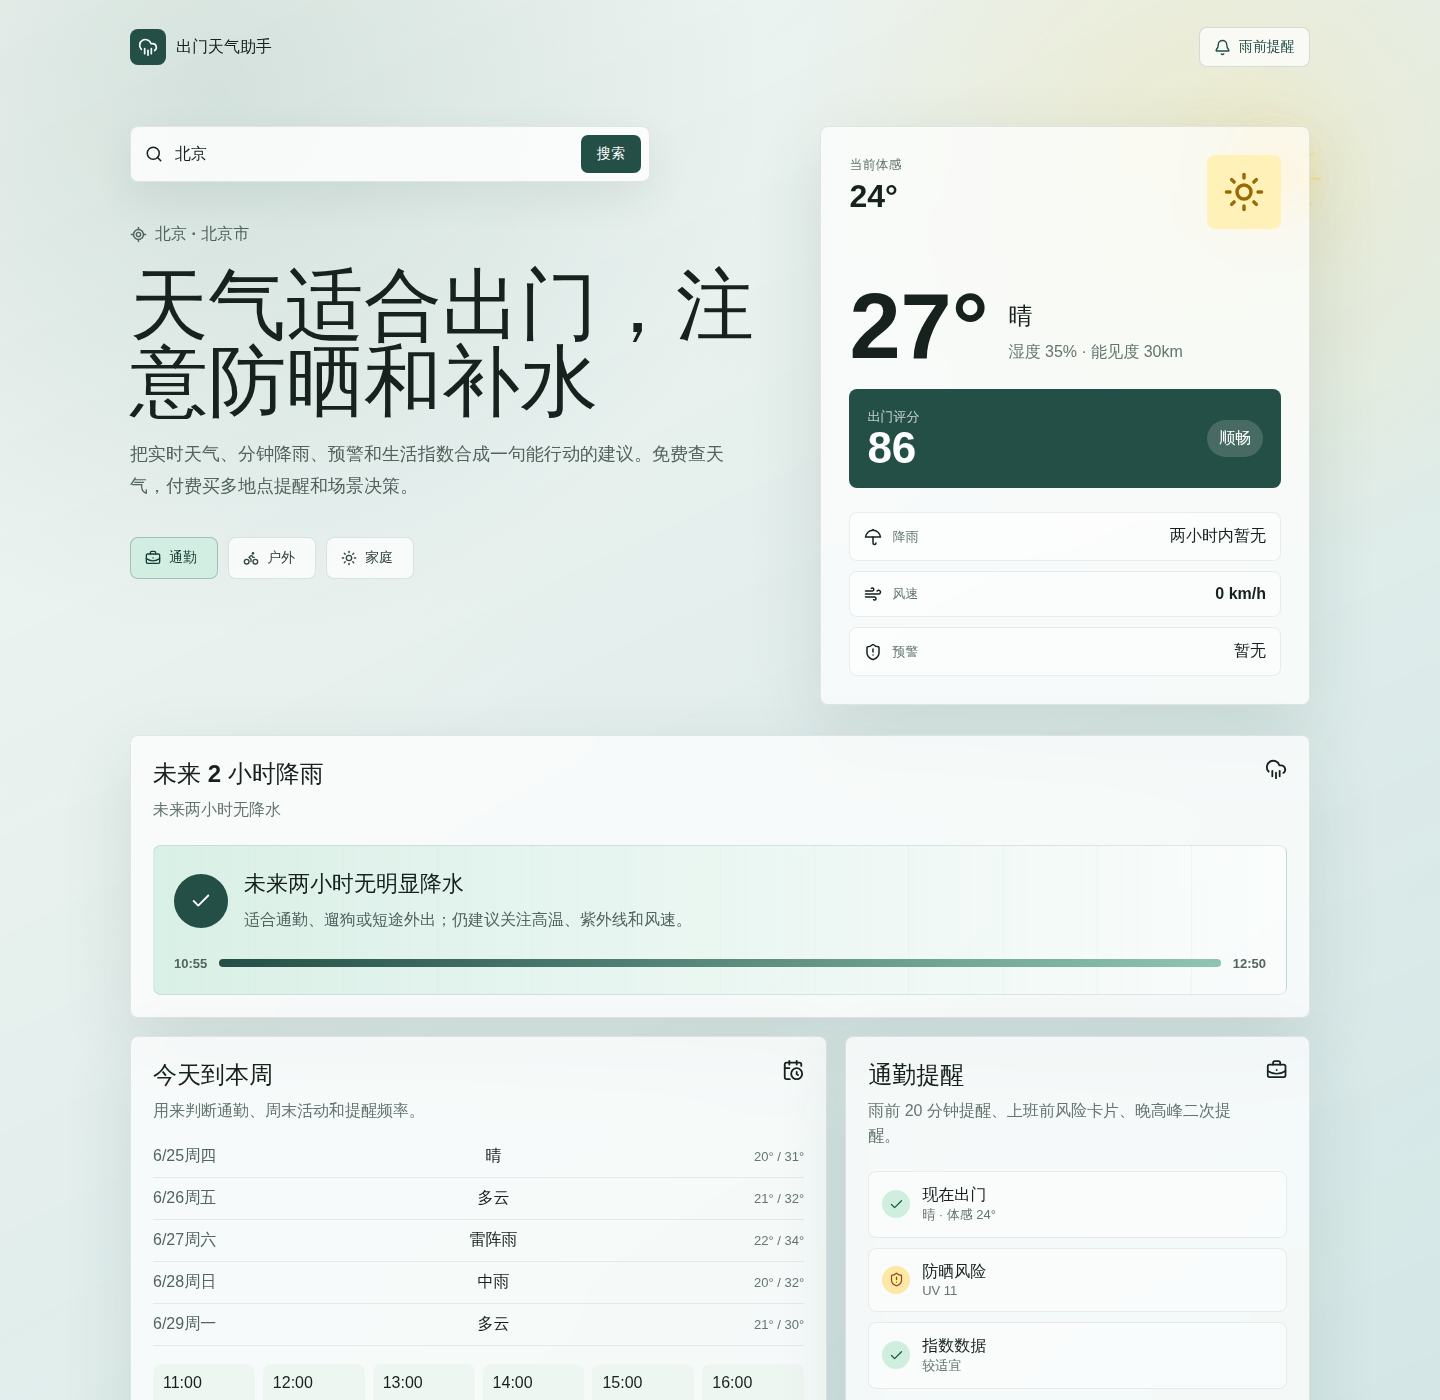
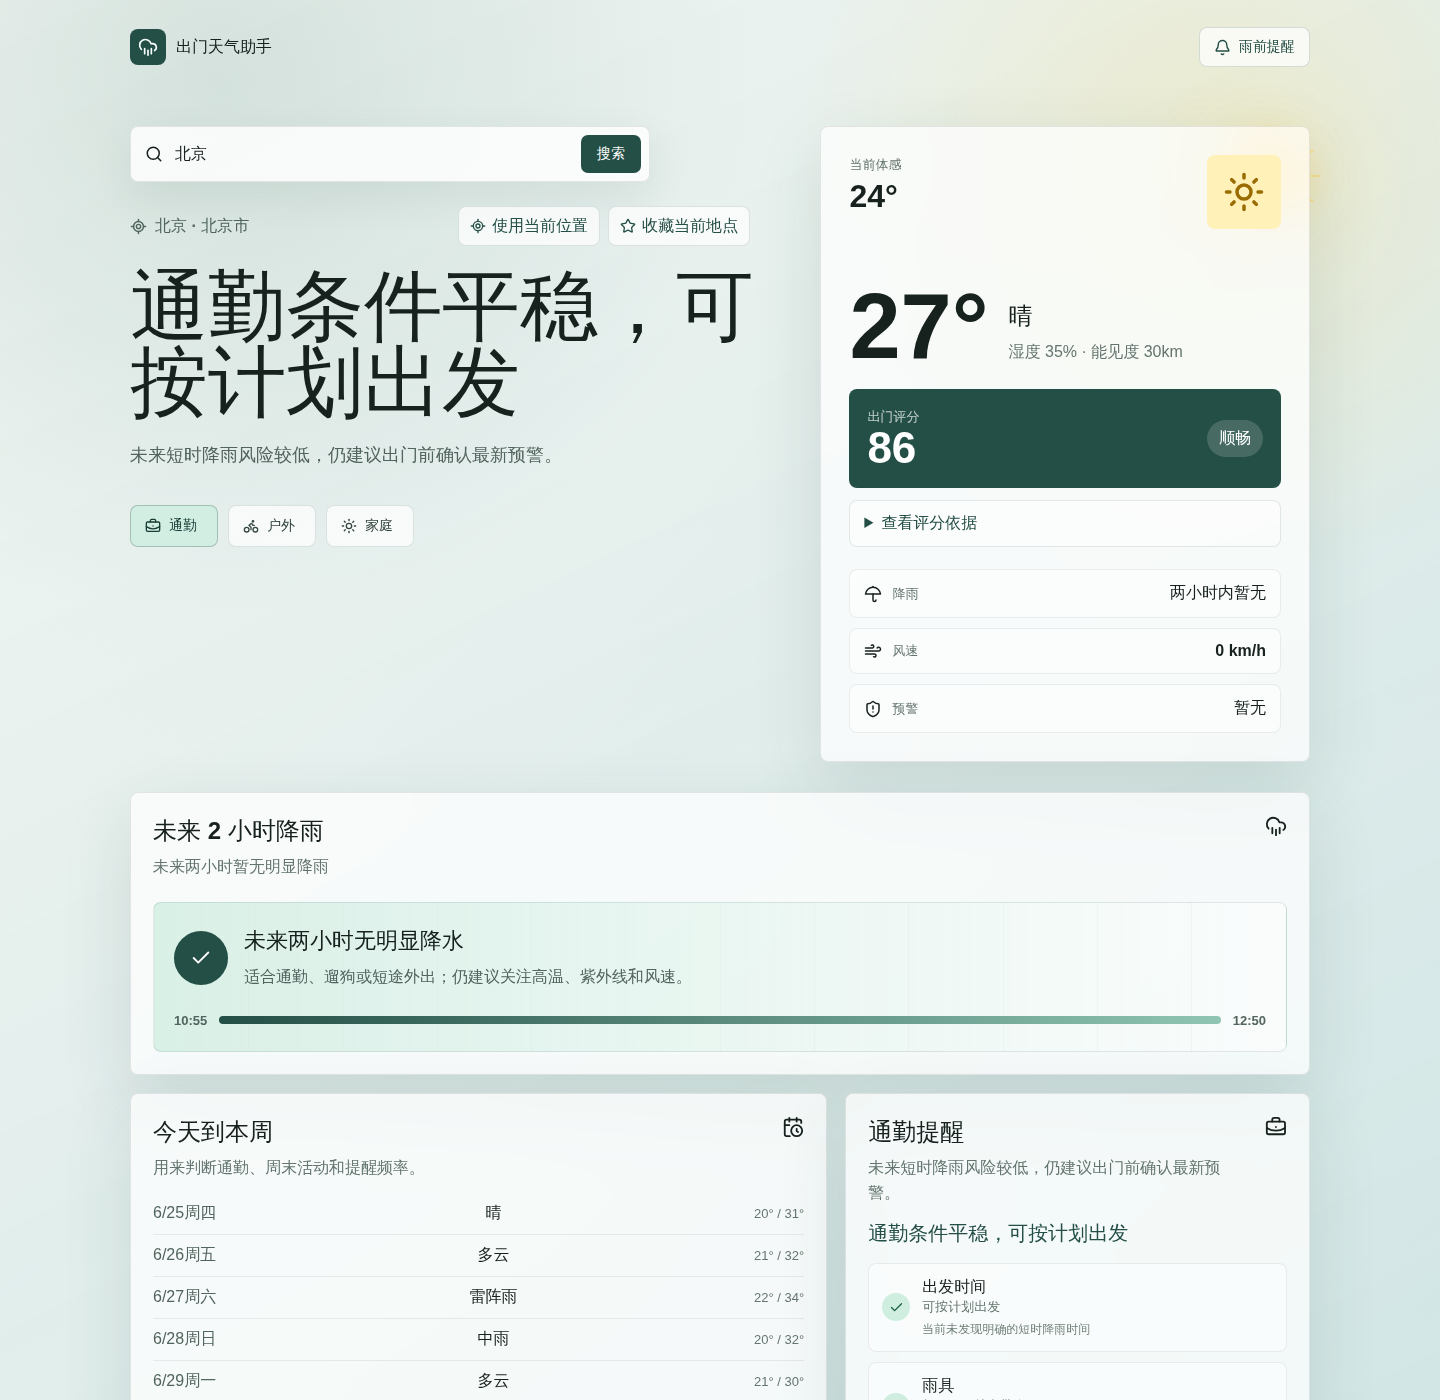
docs: explain local weather decision features

diff --git a/README.md b/README.md
@@ -25,7 +25,10 @@
 
 - **一眼做决定**：把体感温度、降雨、风速、预警和生活指数转成可执行建议
 - **关注接下来两小时**：分钟级降雨趋势，出门前快速判断是否需要带伞
-- **按场景组织信息**：通勤、户外、家庭三种模式，不再被无关数据淹没
+- **真正不同的场景建议**：通勤看出发与雨具，户外看活动窗口，家庭看老人儿童与穿衣防晒
+- **本机雨前提醒**：可设置地点、提前量和生效时段，页面打开期间自动检查降雨
+- **常用地点与当前位置**：一键定位，并在本机保存最多 5 个常用地点
+- **评分有依据**：查看基础分、天气扣分项、数据来源和更新时间
 - **免费即可体验**：默认 Mock 模式，不注册账号、不填写 API Key 也能完整运行
 - **凭据留在服务端**：浏览器只访问项目 API，避免将和风天气 Key 暴露到前端
 - **部署方式简单**：支持本地运行、生产构建与 Docker Compose
@@ -59,8 +62,18 @@ npm run dev:mock
 | 7 天与 24 小时预报 | 安排通勤、周末和户外活动 |
 | 天气预警与生活指数 | 提前规避高温、雷雨等风险 |
 | 城市与区县搜索 | 快速查看目的地天气 |
-| 通勤 / 户外 / 家庭模式 | 只看当前场景真正需要的信息 |
+| 通勤 / 户外 / 家庭模式 | 获得不同的出发、活动和家庭建议 |
+| 本机雨前提醒 | 在页面打开期间提前收到浏览器或页面提示 |
+| 当前位置与常用地点 | 快速切换家、公司、学校等地点 |
+| 可解释出门评分 | 看清降雨、大风、UV 等扣分因素 |
 | 骨架屏与渐进加载 | 弱网环境下更快看到关键结论 |
+
+## 本机雨前提醒
+
+点击页面右上角“雨前提醒”，选择地点、提前 10/20/30 分钟和生效时段。只有在你主动点击“允许通知”后，Weather Pro 才会请求浏览器通知权限。
+
+> [!NOTE]
+> 当前是本机 MVP：页面打开期间会每 5 分钟检查一次降雨，页面重新可见时也会立即检查。关闭浏览器后无法保证提醒；后台 Web Push 和跨设备同步仍在 Roadmap 中。
 
 ## 使用真实天气数据
 
@@ -120,6 +133,7 @@ QWeather API（或内置 Mock 数据）
 
 ```text
 weather_help/
+├── shared/                 # 前后端共用的场景建议与评分规则
 ├── src/                    # React 界面、天气效果与渐进加载
 ├── server/                 # Express API、天气服务、缓存与 Mock 数据
 ├── public/                 # 静态资源与产品截图
@@ -131,7 +145,7 @@ weather_help/
 
 ## Roadmap
 
-接下来计划支持 PWA、本地常用地点、降雨提醒、分享天气卡片和更多户外场景。查看完整 [Roadmap](./ROADMAP.md)，也欢迎通过 Issue 提议你最需要的能力。
+接下来计划支持 PWA、后台 Web Push、跨设备同步、分享天气卡片和更多户外场景。查看完整 [Roadmap](./ROADMAP.md)，也欢迎通过 Issue 提议你最需要的能力。
 
 ## 参与贡献
 

diff --git a/README.en.md b/README.en.md
@@ -25,7 +25,10 @@ Most weather apps give you numbers. Weather Pro focuses on the decisions behind 
 
 - **Decide at a glance** with actionable guidance built from temperature, rain, wind, warnings, and lifestyle indices
 - **See the next two hours** with minute-level precipitation trends
-- **Switch by context** between commute, outdoor, and family views
+- **Get genuinely different scenario advice** for commuting, outdoor activities, and family plans
+- **Enable local rain reminders** with a location, lead time, and active hours
+- **Use current and favorite locations** with up to five places stored locally
+- **Understand the score** through weather penalties, source, and update time
 - **Try it without an account** using the built-in Mock mode
 - **Keep credentials server-side** behind an Express API proxy
 - **Deploy simply** with a production build or Docker Compose
@@ -53,8 +56,18 @@ Open [http://localhost:5177](http://localhost:5177). Mock data is enabled by def
 | 7-day and 24-hour forecasts | How to plan commutes and activities |
 | Weather warnings and lifestyle indices | How to avoid weather-related risks |
 | City and district search | What conditions look like at your destination |
-| Commute / Outdoor / Family modes | Which information matters for your situation |
+| Commute / Outdoor / Family modes | Different departure, activity, and family guidance |
+| Local rain reminders | Browser or in-page warnings while the app is open |
+| Current and favorite locations | Fast switching between frequently used places |
+| Explainable weather score | Rain, wind, UV, source, and freshness details |
 | Skeleton states and progressive loading | Get the key conclusion sooner on slow networks |
+
+## Local Rain Reminders
+
+Open “Rain reminder” to choose a location, a 10/20/30-minute lead time, and active hours. Weather Pro requests notification permission only after an explicit click.
+
+> [!NOTE]
+> This is a local MVP. It checks rain every five minutes while the page is open and again when the page becomes visible. Reminders are not guaranteed after the browser closes; background Web Push and cross-device sync remain on the Roadmap.
 
 ## Use Real QWeather Data
 
@@ -110,7 +123,7 @@ QWeather API (or built-in Mock data)
 
 ## Roadmap and Contributing
 
-PWA support, favorite locations, rain reminders, shareable weather cards, and more outdoor scenarios are on the [Roadmap](./ROADMAP.md).
+PWA support, background Web Push, cross-device sync, shareable weather cards, and more outdoor scenarios are on the [Roadmap](./ROADMAP.md).
 
 Contributions are welcome. Please read the [contribution guide](./CONTRIBUTING.md), run `npm test` and `npm run build`, then open a focused pull request. Report vulnerabilities according to the [security policy](./SECURITY.md).
 

diff --git a/ROADMAP.md b/ROADMAP.md
@@ -1,12 +1,21 @@
 # Roadmap
 
+## Completed
+
+- Scenario-specific commute, outdoor, and family advice
+- Explainable weather score with freshness and source
+- Local favorite locations and current-location lookup
+- Local rain reminders while the page is open
+- Mobile-first decision summary
+- Screenshot assets for README
+
 ## Near Term
 
 - PWA install support
-- Local favorite locations: home, office, school, parents
-- Rain-before reminders
+- Background Web Push rain reminders
+- Cross-device reminder and favorite-location sync
 - Better empty/error states for QWeather API limits
-- Screenshot assets and demo GIF for README
+- Demo GIF for README
 - English UI toggle
 
 ## Product Experiments
